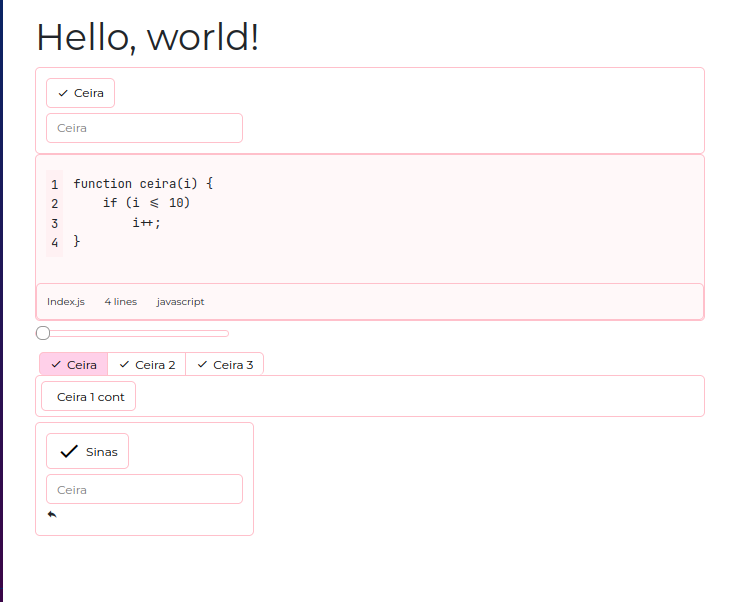
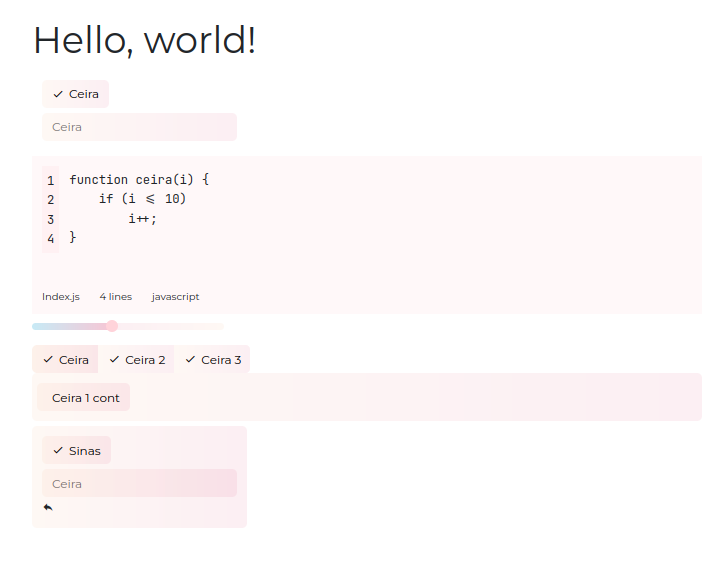
Support for gradients!

diff --git a/WaxComponents/wwwroot/Styles/Themes/lightPink.css b/WaxComponents/wwwroot/Styles/Themes/lightPink.css
@@ -1,19 +1,21 @@
 :root {
-    --bg-color: white;
+    --bg-color: transparent;
     --bg-color-secondary: rgba(255, 182, 193, .1);
     --main-color: deeppink;
+    
+    --main-color-start: rgba(247, 187, 151, .1);
+    --main-color-end: rgba(221, 94, 137, .1);
+    
     --border-radius: 5px;
     --transition-time: .333s;
     
-    --component-bg-color-hover: rgba(255, 20, 147, .05);
-    --component-bg-color-focus: rgba(255, 20, 147, .1);
-    --conponent-bg-color-active: rgba(255, 20, 147, .2);
+    --component-bg: linear-gradient(to right, rgba(247, 187, 151, .1), rgba(221, 94, 137, .1));
+    --component-bg-hover: linear-gradient(to right, rgba(247, 187, 151, .15), rgba(221, 94, 137, .15));
+    --component-bg-focus: linear-gradient(to right, rgba(247, 187, 151, .2), rgba(221, 94, 137, .20));
+    --component-bg-active: linear-gradient(to right, rgba(247, 187, 151, .25), rgba(221, 94, 137, .25));
     
-    --component-border-color: pink;
-    --component-border-color-hover: hotpink;
-    --component-border-color-focus-within: deeppink;
-    
-    --slider-thumb-color: white;
-    --slider-thumb-color-hover: rgba(255, 235, 255);
-    --slider-fill-color: pink;
+    --slider-thumb-color: #ffd3da;
+    --slider-thumb-color-hover: #ffb6c1;
+    --slider-fill-start: rgba(95, 195, 228, .35);
+    --slider-fill-end: rgba(229, 93, 135, .35)
 }

diff --git a/WaxComponents/wwwroot/Styles/waxComponents.css b/WaxComponents/wwwroot/Styles/waxComponents.css
@@ -20,35 +20,25 @@ textarea:focus, input:focus{
 
 .waxComponent {
     background-color: var(--bg-color, white);
-    transition: border-color, background-color var(--transition-time, .333s);
+    background-image: var(--component-bg);
+    transition: background-color var(--transition-time, .333s);
+    border: none;
+    border-radius: 5px;
 }
 
 .waxComponent:hover {
-    background-color: var(--component-bg-color-hover, rgba(255, 20, 147, .05));
+    background-image: var(--component-bg-hover);
 }
 
 .waxComponent:focus {
-    background-color: var(--component-bg-color-focus, rgba(255, 20, 147, .1));
+    background-image: var(--component-bg-focus);
 }
 
 .waxComponent:active {
-    background-color: var(--conponent-bg-color-active, rgba(255, 20, 147, .2));
+    background-image: var(--component-bg-active);
 }
 
 .waxComponentSecondary {
     background-color: var(--bg-color-secondary, white);
     transition: border-color, background-color var(--transition-time, .333s);
-}
-
-.waxComponentOutline {
-    border: 1px solid var(--component-border-color, pink);
-    border-radius: 5px;
-}
-
-.waxComponentOutline:hover {
-    border-color: hotpink;
-}
-
-.waxComponentOutline:focus-within {
-    border-color: deeppink;
 }

diff --git a/WaxComponents/WaxSlider.razor.css b/WaxComponents/WaxSlider.razor.css
@@ -13,6 +13,7 @@
 .waxSlider::-webkit-slider-thumb {
     -webkit-appearance: none;
     background-color: var(--slider-thumb-color, white);
+    border: none;
     border-radius: 6px;
     width: 12px;
     height: 12px;
@@ -21,6 +22,7 @@
 .waxSlider::-moz-range-thumb {
     -webkit-appearance: none;
     background-color: var(--slider-thumb-color, white);
+    border: none;
     border-radius: 6px;
     width: 12px;
     height: 12px;
@@ -29,6 +31,7 @@
 .waxSlider::-ms-thumb {
     -webkit-appearance: none;
     background-color: var(--slider-thumb-color, white);
+    border: none;
     border-radius: 6px;
     width: 12px;
     height: 12px;

diff --git a/WaxComponents/WaxTabItem.razor.css b/WaxComponents/WaxTabItem.razor.css
@@ -3,13 +3,13 @@
     float: left;
     margin-right: -1px;
     white-space: nowrap;
-    padding: 2px 10px;
+    padding: 5px 10px;
 
     border-bottom: none;
 }
 
 .waxTabItem:hover {
-    background-color: var(--component-bg-color-hover, rgba(255, 20, 147, .05)) !important;
+    background-color: var(--component-bg-hover); !important;
 }
 
 .waxTabItemText {

diff --git a/WaxComponents/WaxButton.razor.css b/WaxComponents/WaxButton.razor.css
@@ -2,17 +2,12 @@
     display: flex;
     flex-direction: row;
     padding: 5px 10px;
-
+    
     transition: background-color .15s;
-}
-
-.waxButtonOutlined {
-    background-color: white;
 }
 
 .waxButtonNone {
     border: none;
-    background-color: transparent;
 }
 
 .waxButtonText {

diff --git a/WaxComponents/WaxTab.razor.css b/WaxComponents/WaxTab.razor.css
@@ -1,9 +1,9 @@
 .waxTab {
+    width: fit-content;
     overflow: hidden;
     margin-top: 10px;
-    margin-left: 4px;
 }
 
 .waxTabContent {
-    padding: 5px;
+    padding: 10px 5px;
 }

diff --git a/WaxComponents/WaxButton.razor.cs b/WaxComponents/WaxButton.razor.cs
@@ -10,7 +10,7 @@ public partial class WaxButton
 
     [Parameter] public string FontSize { get; set; } = "12px";
 
-    [Parameter] public WaxButtonStyle ButtonStyle { get; set; } = WaxButtonStyle.Outlined;
+    [Parameter] public WaxButtonStyle ButtonStyle { get; set; } = WaxButtonStyle.None;
 
     [Parameter] public EventHandler<WaxClickedEventArgs>? OnClick { get; set; }
     [Parameter] public string Style { get; set; } = String.Empty;
@@ -20,7 +20,7 @@ public partial class WaxButton
     public string GetClasses() =>
         ButtonStyle switch
         {
-            WaxButtonStyle.Outlined => "waxButtonOutlined waxComponentOutline",
+            WaxButtonStyle.Outlined => "waxComponentOutline",
             WaxButtonStyle.None => "waxButtonNone",
             _ => "waxButtonNone"
         };

diff --git a/WaxComponents/WaxTabItem.razor.cs b/WaxComponents/WaxTabItem.razor.cs
@@ -22,7 +22,7 @@ public partial class WaxTabItem
     [Parameter]
     public string Style { get; set; } = String.Empty;
 
-    private string _bgColor = "white";
+    private string _bgImage = "white";
     private string _borderTopRight = "0";
     private string _borderTopLeft = "0";
     private string _borderBottomRight = "0";
@@ -35,7 +35,7 @@ public partial class WaxTabItem
         base.OnInitialized();
     }
 
-    public void ChangeActive(bool active) => _bgColor = active ? "rgba(255, 20, 147, 0.2) !important" : "white";
+    public void ChangeActive(bool active) => _bgImage = active ? "var(--component-bg-active) !important" : "var(--component-bg)";
 
     public void SetAsFirst(bool remove = false)
     {
